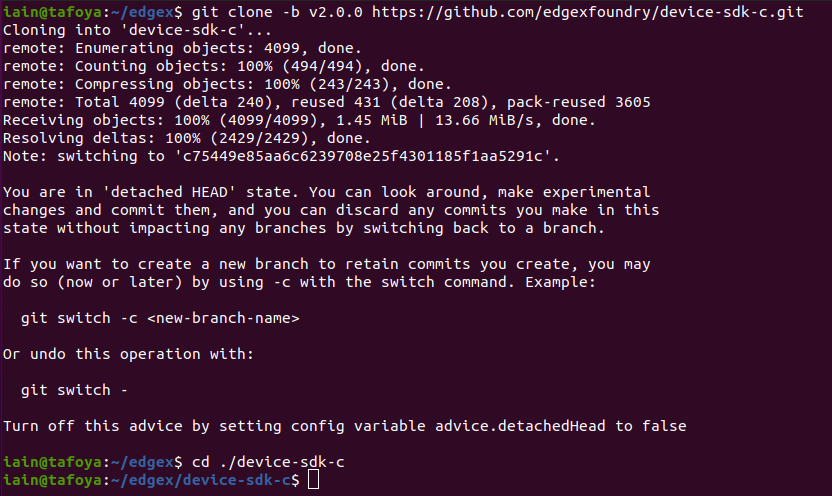
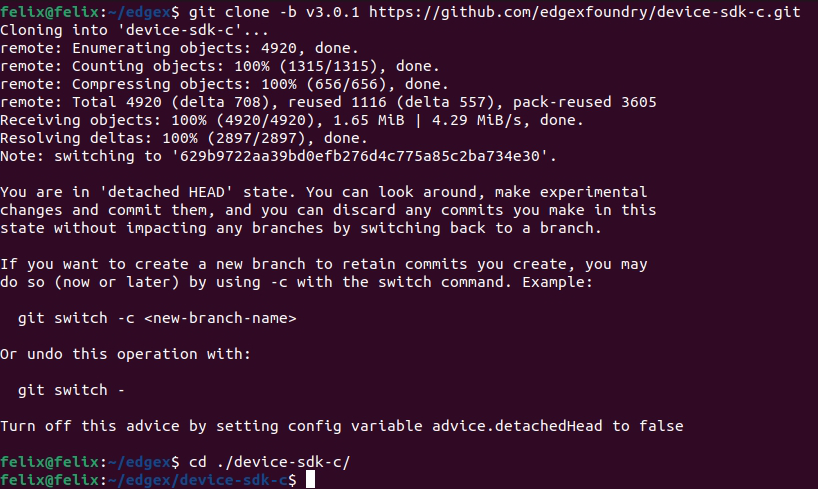
fix: Update Device C SDK page for 3.x (#1154)

diff --git a/docs_src/getting-started/Ch-GettingStartedSDK-C.md b/docs_src/getting-started/Ch-GettingStartedSDK-C.md
@@ -13,14 +13,14 @@ The next step is to download and build the EdgeX device service SDK for C.
 
 1.  First, clone the device-sdk-c from Github:
     ``` bash
-    git clone -b v2.0.0 https://github.com/edgexfoundry/device-sdk-c.git
+    git clone -b v3.0.1 https://github.com/edgexfoundry/device-sdk-c.git
     cd ./device-sdk-c
     ```
 
     ![image](EdgeX_GettingStartedSDKCloneC.png)
 
     !!! Note
-        The clone command above has you pull v2.0.0 of the C SDK which is the version compatible with the Ireland release.
+        The clone command above has you pull v3.0.1 of the C SDK which is the version compatible with the Minnesota release.
 
 2.  Then, build the device-sdk-c:
     ``` bash
@@ -51,16 +51,16 @@ compiled in an earlier step.
 
 1.  Tell the compiler where to find the C SDK files:
     ``` bash
-    export CSDK_DIR=../device-sdk-c/build/release/_CPack_Packages/Linux/TGZ/csdk-2.0.0
+    export CSDK_DIR=../device-sdk-c/build/release/_CPack_Packages/Linux/TGZ/csdk-3.0.1
     ```
 
     !!! Note
-        The exact path to your compiled CSDK_DIR may differ depending on the tagged version number on the SDK.  The version of the SDK can be found in the VERSION file located in the ./device-sdk-c/VERSION file.  In the example above, the Ireland release of 2.0.0 is used.
+        The exact path to your compiled CSDK_DIR may differ depending on the tagged version number on the SDK.  The version of the SDK can be found in the VERSION file located in the ./device-sdk-c/VERSION file.  In the example above, the Minnesota release of 3.0.1 is used.
 
 2.  Now build your device service executable:
 
     ``` bash
-    gcc -I$CSDK_DIR/include -L$CSDK_DIR/lib -o device-example-c template.c -lcsdk
+    gcc -I$CSDK_DIR/include -I/opt/iotech/iot/1.5/include -L$CSDK_DIR/lib -L/opt/iotech/iot/1.5/lib -o device-example-c template.c -lcsdk -liot
     ```
 
     If everything is working properly, a `device-example-c` executable will be created in the directory.
@@ -119,7 +119,7 @@ Here the reading value is set to a random signed integer. Various `iot_data_allo
 ## Creating your Device Profile
 
 A device profile is a YAML file that describes a class of device to
-EdgeX. General characteristics about the type of device, the data these devices provide, and how to command the device are all in a device profile.   The device profile tells the device service what data gets collected from the the device and how to get it. 
+EdgeX. General characteristics about the type of device, the data these devices provide, and how to command the device are all in a device profile.   The device profile tells the device service what data gets collected from the device and how to get it. 
 
 Follow these steps to create a device profile for the simple random number generating device service.
 
@@ -137,11 +137,9 @@ Device Service accepts pre-defined devices to be added to EdgeX during device se
 
 Follow these steps to create a pre-defined device for the simple random number generating device service.
 
-1.  Explore the files in the cmd/device-simple/res/devices folder.   Note the example simple-device.json that is already in this folder.  Open the file with your favorite editor and explore its contents.  Note how the file contents represent an actual device with its properties (properties like Name, ProfileName, AutoEvents).
+1. A pre-created device for the random number device is provided in this documentation.  Download **[random-generator-devices.json](random-generator-devices.json)** and save the file to the `./res/devices` folder.
 
-2.  A pre-created device for the random number device is provided in this documentation.  Download **[random-generator-devices.yaml](random-generator-devices.yaml)** and save the file to the `~/edgexfoundry/device-simple/cmd/device-simple/res/devices` folder.
-
-3.  Open the random-generator-devices.yaml file in a text editor. In this example, the device described has a profileName:  `RandNum-Device`.  In this case, the device informs EdgeX that it will be using the device profile we created in [Creating your Device Profile](./Ch-GettingStartedSDK-C.md#creating-your-device-profile)
+2. Open the random-generator-devices.json file in a text editor. Note how the file contents represent an actual device with its properties (properties like Name, ProfileName, AutoEvents).  In this example, the device described has a profileName:  `RandNum-Device`.  In this case, the device informs EdgeX that it will be using the device profile we created in [Creating your Device Profile](./Ch-GettingStartedSDK-C.md#creating-your-device-profile)
 
 
 ## Configuring your Device Service
@@ -149,7 +147,7 @@ Follow these steps to create a pre-defined device for the simple random number g
 Now update the configuration for the new device service.    This documentation provides a new configuration.yaml file.  This configuration file:
 - changes the port the service operates on so as not to conflict with other device services
 
-Download  **[configuration.yaml](https://github.com/edgexfoundry/device-sdk-go/blob/{{version}}/example/cmd/device-simple/res/configuration.yaml)** and save the file to the ./res folder.
+Download  **[configuration.yaml](configuration.yaml)** and save the file to the ./res folder.
 
 ### Custom Structured Configuration
 
@@ -184,7 +182,7 @@ taking readings every 10 seconds.
 Rebuild your Device Service to reflect the changes that you have made:
 
 ``` bash
-gcc -I$CSDK_DIR/include -L$CSDK_DIR/lib -o device-example-c template.c -lcsdk
+gcc -I$CSDK_DIR/include -I/opt/iotech/iot/1.5/include -L$CSDK_DIR/lib -L/opt/iotech/iot/1.5/lib -o device-example-c template.c -lcsdk -liot
 ```
 
 ## Run your Device Service
@@ -198,14 +196,14 @@ sends to EdgeX.
     following call:
 
     ``` bash
-    docker compose up -d
+    docker compose -f docker-compose-no-secty.yml up -d
     ```
 
 2.  Back in your custom device service directory, tell your device
-    service where to find the `libcsdk.so`:
+    service where to find the `libcsdk.so` and `libiot.so`:
 
     ``` bash
-    export LD_LIBRARY_PATH=$CSDK_DIR/lib
+    export LD_LIBRARY_PATH=$CSDK_DIR/lib:/opt/iotech/iot/1.5/lib
     ```
 
 3.  Run your device service:
@@ -229,13 +227,13 @@ sends to EdgeX.
     service directly:
 
     ``` bash
-    curl 0:59992/api/{{api_version}}/device/name/RandNum-Device01/RandomNumber
+    curl 0:59999/api/v3/device/name/RandNum-Device01/RandomNumber
     ```
 
 6.  Using a browser, enter the following URL to see the event/reading
     data that the service is generating and sending to EdgeX:
 
-    <http://localhost:59880/api/{{api_version}}/event/device/name/RandNum-Device01?limit=100>
+    <http://localhost:59880/api/v3/event/device/name/RandNum-Device01?limit=100>
 
     This request asks core data to provide the last 100 events/readings associated to the RandNum-Device-01.
 

diff --git a/docs_src/getting-started/Ch-GettingStartedCDevelopers.md b/docs_src/getting-started/Ch-GettingStartedCDevelopers.md
@@ -53,5 +53,47 @@ Check that your C development environment includes the following:
     - paho (version 1.3.x)
     - hiredis (version 0.14)
 
+### Installing IOT utilities
+
+From EdgeX version 3.0, the C utilities used by the SDK must be installed as a pre-requisite package,
+rather than being downloaded and built with the SDK itself as in previous versions. Note that if re-using
+an old build tree, the `src/c/iot` and `include/iot` directories must be removed as these will be
+outdated.
+
+All commands shown are to be run as the root user.
+
+#### Debian and Ubuntu
+
+Management of package signing keys is changed in newer versions. For Debian 11 and Ubuntu 22.04:
+
+```
+apt-get install lsb-release apt-transport-https curl gnupg
+curl -fsSL https://iotech.jfrog.io/artifactory/api/gpg/key/public | gpg --dearmor -o /usr/share/keyrings/iotech.gpg
+echo "deb [signed-by=/usr/share/keyrings/iotech.gpg] https://iotech.jfrog.io/iotech/debian-release $(lsb_release -cs) main" | tee -a /etc/apt/sources.list.d/iotech.list
+apt-get update
+apt-get install iotech-iot-1.5-dev
+```
+
+For earlier versions:
+
+```
+apt-get install lsb-release apt-transport-https curl gnupg
+curl -fsSL https://iotech.jfrog.io/artifactory/api/gpg/key/public | apt-key add -
+echo "deb https://iotech.jfrog.io/iotech/debian-release $(lsb_release -cs) main" | tee -a /etc/apt/sources.list.d/iotech.list
+apt-get update
+apt-get install iotech-iot-1.5-dev
+```
+
+#### Alpine
+
+```
+wget https://iotech.jfrog.io/artifactory/api/security/keypair/public/repositories/alpine-release -O /etc/apk/keys/alpine.dev.rsa.pub
+echo "https://iotech.jfrog.io/artifactory/alpine-release/v3.16/main" >> /etc/apk/repositories
+apk update
+apk add iotech-iot-1.5-dev
+```
+
+Note: If not using Alpine 3.16, replace v3.16 in the above commands with the correct version.
+
 ## Next Steps
 To explore how to create and build EdgeX device services in C, head to the [Device Services, C SDK guide](Ch-GettingStartedSDK-C.md).
